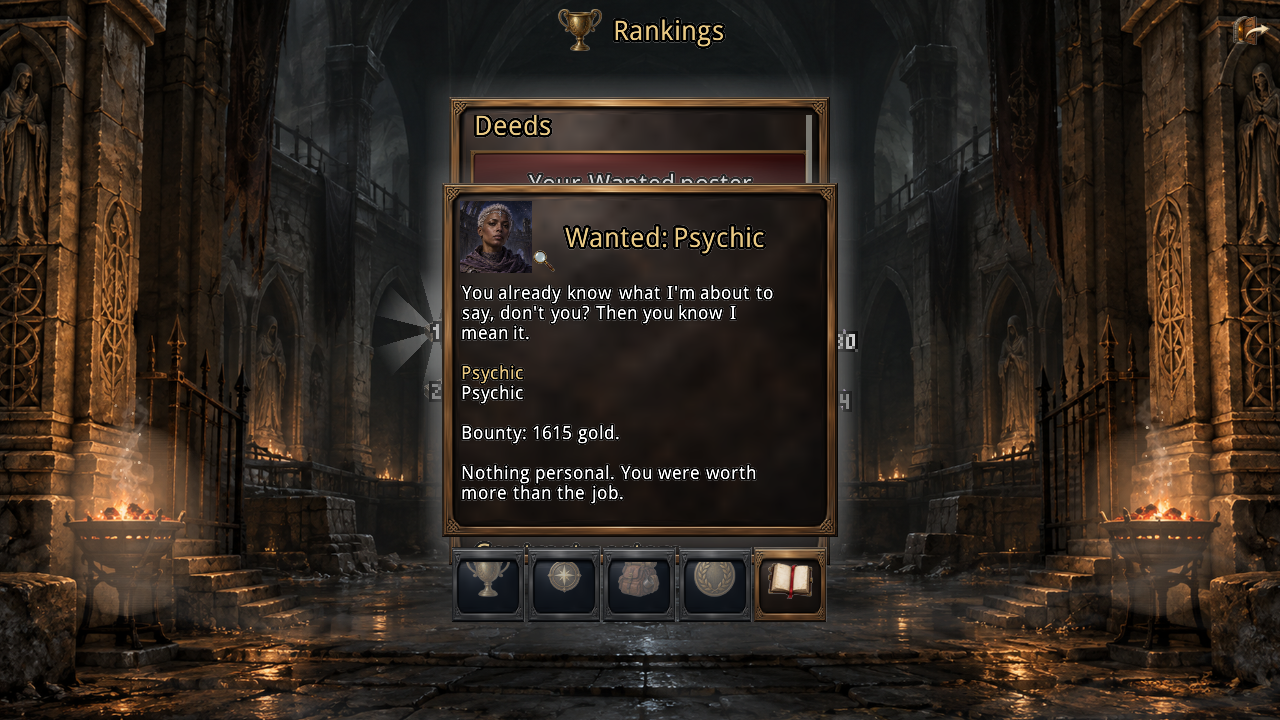
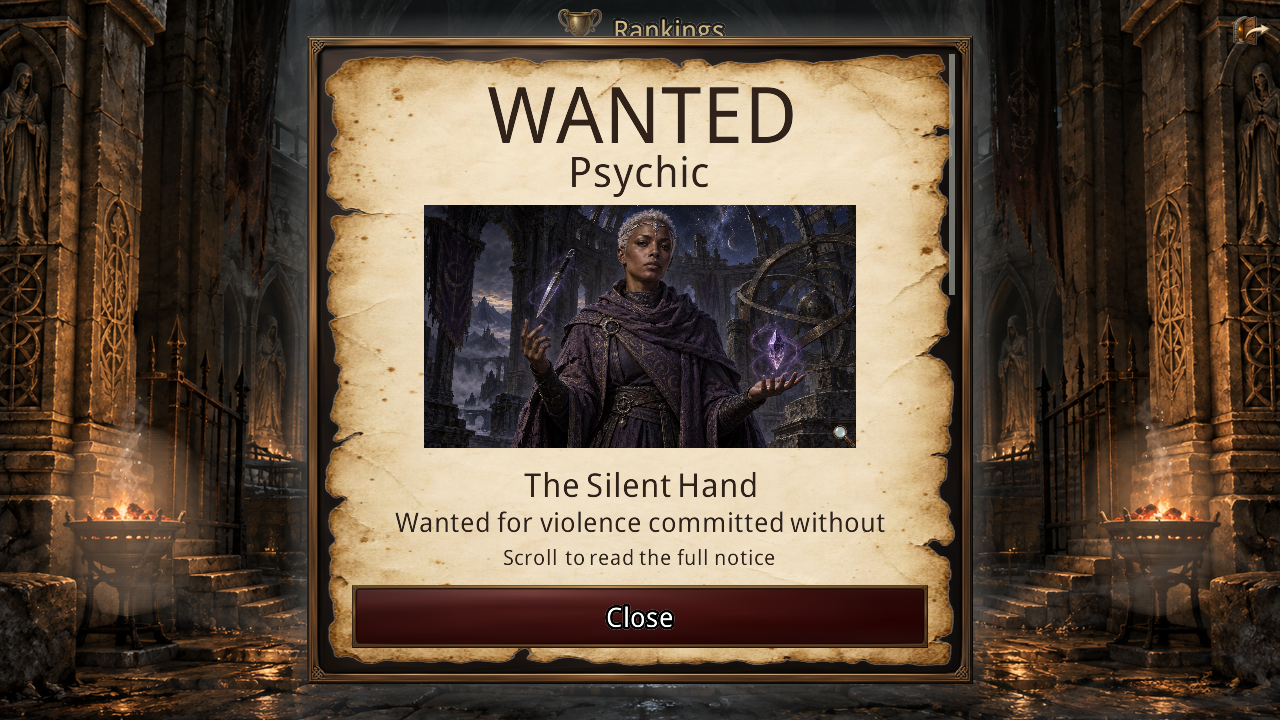
Finalize v1.29.18 poster readability, packages and verification

diff --git a/desktop/src/main/java/com/shatteredpixel/shatteredpixeldungeon/desktop/DesktopSmokeProbe.java b/desktop/src/main/java/com/shatteredpixel/shatteredpixeldungeon/desktop/DesktopSmokeProbe.java
@@ -39,6 +39,7 @@ final class DesktopSmokeProbe extends ShatteredPixelDungeon {
     private boolean bountyJournalOpened;
     private int bountyPaymentGold;
     private Rankings.Record bountyRankedRecord;
+    private boolean bountyWantedScrolled;
     private com.shatteredpixel.shatteredpixeldungeon.actors.mobs.npcs.Cole bountyCole;
     private final java.util.List<com.shatteredpixel.shatteredpixeldungeon.actors.mobs.Mob> bountyQuarries=new java.util.ArrayList<>();
     private int horrorFrames, horrorStep, horrorStart, horrorHealth;
@@ -420,7 +421,10 @@ final class DesktopSmokeProbe extends ShatteredPixelDungeon {
                 interfaceBounds();checkReviewText(Game.scene());
                 if(!allReviewText(Game.scene()).contains(Integer.toString(bountyRankedRecord.deeds.wantedBounty)))throw new AssertionError("Wanted amount changed across runs");
                 heroPosterLayoutCheck();
-                capture("rankings-wanted");closeReviewWindows();
+                if(!bountyWantedScrolled){
+                    capture("rankings-wanted");heroPosterScrollCheck();bountyWantedScrolled=true;bountyStep--;break;
+                }
+                capture("rankings-wanted-scrolled");closeReviewWindows();
                 com.shatteredpixel.shatteredpixeldungeon.windows.WndRanking ranking=new com.shatteredpixel.shatteredpixeldungeon.windows.WndRanking(bountyRankedRecord);
                 Game.scene().add(ranking);ranking.showDeeds();break;
             case 5:rankingClick(Game.scene(),bountyRankedRecord.deeds.highestPaid().alias);break;
@@ -599,6 +603,26 @@ final class DesktopSmokeProbe extends ShatteredPixelDungeon {
             }
         }
         if(!found)throw new AssertionError("Personal poster not open for native review");
+    }
+    private void heroPosterScrollCheck(){
+        for(com.watabou.noosa.Gizmo window:RecoveryChecks.members(Game.scene()))if(window instanceof com.shatteredpixel.shatteredpixeldungeon.windows.WndHeroWantedPoster){
+            com.shatteredpixel.shatteredpixeldungeon.ui.ScrollPane pane=(com.shatteredpixel.shatteredpixeldungeon.ui.ScrollPane)RecoveryChecks.field(window,"paper");
+            Image seal=(Image)RecoveryChecks.field(window,"seal");
+            if(pane.content().height()<=pane.height()){
+                if(seal.y+seal.height()>pane.height())throw new AssertionError("Fitting personal poster clips its final seal");
+                System.out.println("PERSONAL POSTER FULL PAGE PASS: full notice/bounty/seal fits without scrolling; failures=0");
+                continue;
+            }
+            if(!allReviewText((Group)window).contains("Scroll to read the full notice"))throw new AssertionError("Personal poster lacks scroll hint");
+            pointerGestureReview(pane,com.watabou.input.PointerEvent.NONE,-60);
+            if(pane.content().camera.scroll.y<=0)throw new AssertionError("Personal poster touch scroll failed");
+            pane.scrollTo(0,0);
+            com.watabou.utils.Point at=pane.camera().cameraToScreen(pane.centerX(),pane.centerY());
+            com.watabou.input.ScrollEvent.addScrollEvent(new com.watabou.input.ScrollEvent(new com.watabou.utils.PointF(at.x,at.y),100));
+            com.watabou.input.ScrollEvent.processScrollEvents();
+            if(pane.content().camera.scroll.y<=0 || seal.y+seal.height()>pane.content().camera.scroll.y+pane.height())throw new AssertionError("Personal poster final seal is inaccessible");
+            System.out.println("PERSONAL POSTER SCROLL PASS: touch drag, mouse wheel, full notice/bounty/seal and fixed Close button; failures=0");
+        }
     }
     private void bountySealCheck(){
         com.shatteredpixel.shatteredpixeldungeon.actors.mobs.Mob mob=BountyBoard.contracts[0].target;

diff --git a/core/src/main/java/com/shatteredpixel/shatteredpixeldungeon/windows/WndHeroWantedPoster.java b/core/src/main/java/com/shatteredpixel/shatteredpixeldungeon/windows/WndHeroWantedPoster.java
@@ -54,12 +54,19 @@ public class WndHeroWantedPoster extends Window {
         seal.texture.filter(GL20.GL_LINEAR,GL20.GL_LINEAR);seal.x=(w-80)/2;seal.y=signatureLine.y+5;content.add(seal);
         content.setSize(w,seal.y+seal.height()+10);
         ArtworkButton enlarge=new ArtworkButton(()->portrait,()->subjectName);enlarge.setRect(portrait.x,portrait.y,portrait.width(),portrait.height());content.add(enlarge);
-        paperWidth=w;paperHeight=h-31;paper=new ScrollPane(content);add(paper);
+        paperWidth=w;paperHeight=h-31;
+        if(content.height()>paperHeight){
+            paperHeight-=12;add(createInk(Messages.get(Cole.class,"hero_poster_scroll"),7,w,h-39));
+        }
+        paper=new ScrollPane(content);add(paper);
         RedButton close=new RedButton(Messages.get(com.shatteredpixel.shatteredpixeldungeon.RunDeeds.class,"close")){
             @Override protected void onClick(){hide();}
         };close.setRect(9,h-27,w-18,21);add(close);resize(w,h);
     }
     private RenderedTextBlock ink(String text,int size,int width,float y){
+        RenderedTextBlock block=createInk(text,size,width,y);content.add(block);return block;
+    }
+    private RenderedTextBlock createInk(String text,int size,int width,float y){
         int scale=Math.max(1,Math.round(PixelScene.defaultZoom*DeviceCompat.getRealPixelScaleX()));
         RenderedTextBlock block=new RenderedTextBlock(size*scale){
             @Override protected RenderedText createWord(String word,int pixels){return new RenderedText(word,pixels,false);}
@@ -68,7 +75,7 @@ public class WndHeroWantedPoster extends Window {
         };
         block.zoom(1f/scale);block.setHightlighting(false);block.hardlight(0x302218);
         block.text(text.replace("_",""),width-38);block.align(RenderedTextBlock.CENTER_ALIGN);
-        block.setPos((width-block.width())/2,y);PixelScene.align(block);content.add(block);return block;
+        block.setPos((width-block.width())/2,y);PixelScene.align(block);return block;
     }
     @Override public void resize(int w,int h){super.resize(w,h);alignPaper();}
     @Override public void offset(int x,int y){super.offset(x,y);alignPaper();}

diff --git a/verification/ACCEPTANCE.md b/verification/ACCEPTANCE.md
@@ -1,3 +1,13 @@
+# Cornered Horror and personal posters - v1.29.18
+
+- Horror component cc86d57d0: `gradlew.bat core:test core:smokeRun desktop:dist android:assembleDebug --no-daemon --console=plain` **BUILD SUCCESSFUL in 1m 31s; Runs=30 failures=0**, eight unit tests pass. Actual AI/attacks cover a blocked single shop exit, adjacent raised-skeleton retaliation including missed-blow targeting, ordinary accuracy, saved aggressor, reopened routed escape, invisible-hero protection and neutral shopkeepers. Existing five-region/phasing/recovery and denizen scenarios remain passing (60/64 cave-spinner victories). The first attempt failed the unchanged Halls phasing check; the implementation was corrected, not the assertion.
+- Poster component 66b6ac5ad: same command **BUILD SUCCESSFUL in 1m 48s; Runs=30 failures=0**, eight unit tests pass. Nine distinct class titles/flavors, initial class versus selected subclass, supplied/blank names, immutable item/history identity, serialization, recognizable legacy subclass-name migration and later class changes pass in the existing bounty gate.
+- Final scroll refinement: same command **BUILD SUCCESSFUL in 1m 45s; Runs=30 failures=0** (Necromancer/Enchanter/Psychic ten each), eight unit tests pass. Native bounty suites **exit 0 in landscape/mouse and portrait/touch**, covering all nine class posters, both actual boss/handover paths, inventory reading and ranked history. Landscape: **PERSONAL POSTER SCROLL PASS**, actual touch drag and mouse wheel reach the full notice/bounty/seal with fixed Close. Portrait: **PERSONAL POSTER FULL PAGE PASS**, all content fits without scrolling. Initial portrait fixture assumed overflow; corrected before final passing suites. No checks were weakened.
+- Existing native Horror suites **exit 0 in both orientations**: all eight warning directions, optional popup OFF with retained log, fresh-action response, no bronze direction marker, entity-only detection, remains and bone-wall inspection. Horror code is unchanged by the later poster-only refinement. All nine rendered poster layouts are checked; selected class/top/bottom evidence is visually inspected and retained under `verification/interface/{landscape,portrait}/bounty-personal-poster-{necromancer,enchanter,psychic}.png` and `rankings-wanted{-scrolled}.png`.
+- Final compiled audit: **classes=3066 guarded browser sinks=1 HTTP/socket calls=0 failures=0**. No game-art changes or generation; the prior 1936-asset/182-source validation remains the unchanged checkpoint. Test 45 remains **Abandoned: test failed**, not rerun. Physical Samsung tablet and full-campaign balance remain **NOT RUN**.
+- Fresh Windows final launcher: `desktop/build/windows/1.29.18-final/Grimhollow/Grimhollow.exe`; final bundled/tested JAR SHA256 **E4B16BFB241A7577C6B4108AAFC70A684EBB649431B74DBC1218F3566E9F0441**. Earlier package was running/locked; it was not stopped, and missing runtime files were restored without overwriting its locked JAR. Fresh APK **1.29.18-INDEV / versionCode 1017**, rebuilt **2026-10-10 13:29:41 EDT**, SHA256 **B41BA0CE93E8E96E341B7A0F2EDA2A8EAEC459D0B8FD8CCF22D3213C33DB3724**. CI configuration/checks are unchanged; final release CI status is reported at delivery.
+- The preceding v1.29.17 release completed all seven jobs in both tag CI run **38056695839** and branch run **38056695828**. Its Hatchling/forge/reticle changes are included here.
+
 # Hatchling and forge - v1.29.17
 
 - Component 1: `gradlew.bat core:test core:smokeRun desktop:dist android:assembleDebug --no-daemon --console=plain` **BUILD SUCCESSFUL in 3m 22s; Runs=30 failures=0**, eight unit tests pass. Ordinary and resin-enhanced +1 Disintegration wands become +2 at the forge; save/load, valid-only escalating favor costs, capped/stale/poor selections and unchanged scroll resin conversion pass. Commit 77feeb7cb.

diff --git a/KNOWN_ISSUES.md b/KNOWN_ISSUES.md
@@ -1,5 +1,7 @@
 # Known issues
 
+- v1.29.18: Physical Samsung tablet and campaign balance remain NOT RUN. Recognizable older subclass-name poster snapshots migrate; unrecognized historical labels remain saved names rather than invented subclass data. The first Horror attempt failed the unchanged Halls phasing gate and was corrected. A portrait fixture initially assumed every notice overflowed; it now checks the full fitting page or actual scrolling as appropriate. The earlier Windows folder was running/locked; the final package is in `desktop/build/windows/1.29.18-final/`, with missing earlier runtime files restored without overwriting its locked JAR or interrupting play. No art generation or restyling. Test 45 remains Abandoned: test failed, not rerun. CI checks are unchanged.
+
 - v1.29.17: Original tablet wand save/resin history unavailable; ordinary and resin-enhanced +1 Disintegration upgrades are reproduced and pass. Historical favor is not refunded automatically. Explicit drops/throws create the new abandoned pet; already-grounded old heap items and naturally generated floor trinkets are not converted. Inactive floors are not simulated; elapsed-away expiry is applied on return. Physical Samsung tablet and campaign balance remain NOT RUN. Initial native fixture popup assumption and audit without JAVA_HOME are corrected before final checks. Test 45 remains Abandoned: test failed, not rerun. CI checks remain unchanged.
 - v1.29.16: The missing Bounty Board journal title is fixed for existing and new notes; all 27 landmark names/descriptions pass serialization and the actual mouse/touch popup passes both layouts. The first native attempt exposed an incorrect component cast in the fixture, corrected before the final passing suites. Physical Samsung tablet remains NOT RUN. No gameplay or artwork changes; test 45 remains Abandoned: test failed and is not rerun. CI checks are unchanged.
 - v1.29.15: Physical Samsung tablet and full-campaign balance remain NOT RUN. The reported bounty seed is verified, but the original tablet save was unavailable; no exact cause for its lost Voss is claimed. The patch repairs unfinished missing-reference records and protects wanted quarries from Horror predation. Existing dead Horrors are not resurrected. Test 45 remains Abandoned: test failed and is not rerun.

diff --git a/CHANGES.md b/CHANGES.md
@@ -4,6 +4,7 @@
 - Component 1: existing cornered-shop, escape, five-region phasing and denizen scenarios pass; combined Runs=30 failures=0, eight unit tests, Windows/Android build successful in 1m 31s. The first attempt failed the unchanged Halls phasing check under extended visibility; the escape implementation was corrected and all gates passed without weakening that check.
 - Personal Wanted Posters use the existing parchment/seal design: WANTED, supplied name or initial class, larger existing class painting, chosen subclass, one of nine distinct thematic titles and accusations, bounty, and Cole's signature line. Item and ranked-Deeds copies retain class/subclass/name/bounty snapshots across saves and later class changes. Older recognizable subclass-name snapshots migrate to separate fields; unrecognized historical names are retained.
 - Component 2: combined Runs=30 failures=0, eight unit tests and fresh Windows/Android builds successful in 1m 48s. Existing bounty checks cover all nine flavors, no-subclass/subclass/custom/blank names, item/history serialization, old snapshots and independence from the live hero. Native mouse/touch layout checks cover all nine personal posters and the actual handover/archive paths.
+- Final readability refinement: larger landscape notices expose a scroll hint; full portrait notices fit without one. Actual touch dragging and mouse-wheel scrolling reach the flavor, bounty and final seal; Close stays separate. Initial portrait test wrongly assumed overflow and was corrected to check accessibility in either case. Final combined gate Runs=30 failures=0, eight unit tests and Windows/Android build successful in 1m 45s. Final native bounty suites and unchanged Horror suites pass both orientations; compiled audit classes=3066, failures=0. Windows final bundle uses the separate `1.29.18-final` directory because the earlier package was running.
 
 # Hatchling and forge v1.29.17 - 2026-10-10
 

diff --git a/README.md b/README.md
@@ -1,3 +1,11 @@
+# Cornered Horror and personal posters - v1.29.18
+
+Fleeing Horrors check real escape routes and defend themselves against adjacent pursuers when trapped, including raised servants. Opening the route lets them flee again. Their regional stats, ambush warning and recovery limits are unchanged.
+
+The hero's personal Wanted Poster follows the parchment design: WANTED, supplied name or initial class, a larger class painting, chosen subclass, distinct class flavor, bounty and Cole's signature/seal. Inventory and ranked-Deeds copies retain the same saved identity. Overflowing notices show a scroll hint; full notices remain readable without scrolling.
+
+Windows: `desktop/build/windows/1.29.18-final/Grimhollow/Grimhollow.exe` (keep the entire folder). The earlier `1.29.18` folder was in use during packaging; the final folder contains the latest build. Android: `android/build/outputs/apk/debug/android-debug.apk` (`1.29.18-INDEV`, version code 1017).
+
 # Hatchling and forge - v1.29.17
 
 Manual Hatchling feeding can select meals from every container and accepts valuable ordinary finds such as honey pots. Quest belongings, equipped gear, containers and class essentials stay protected; unattended grazing still uses loose inventory. A pet you set down waits, then heads for the stairs. Approach and pick it up before it disappears permanently. Its hunger and remembered gold survive recapture and saves.
